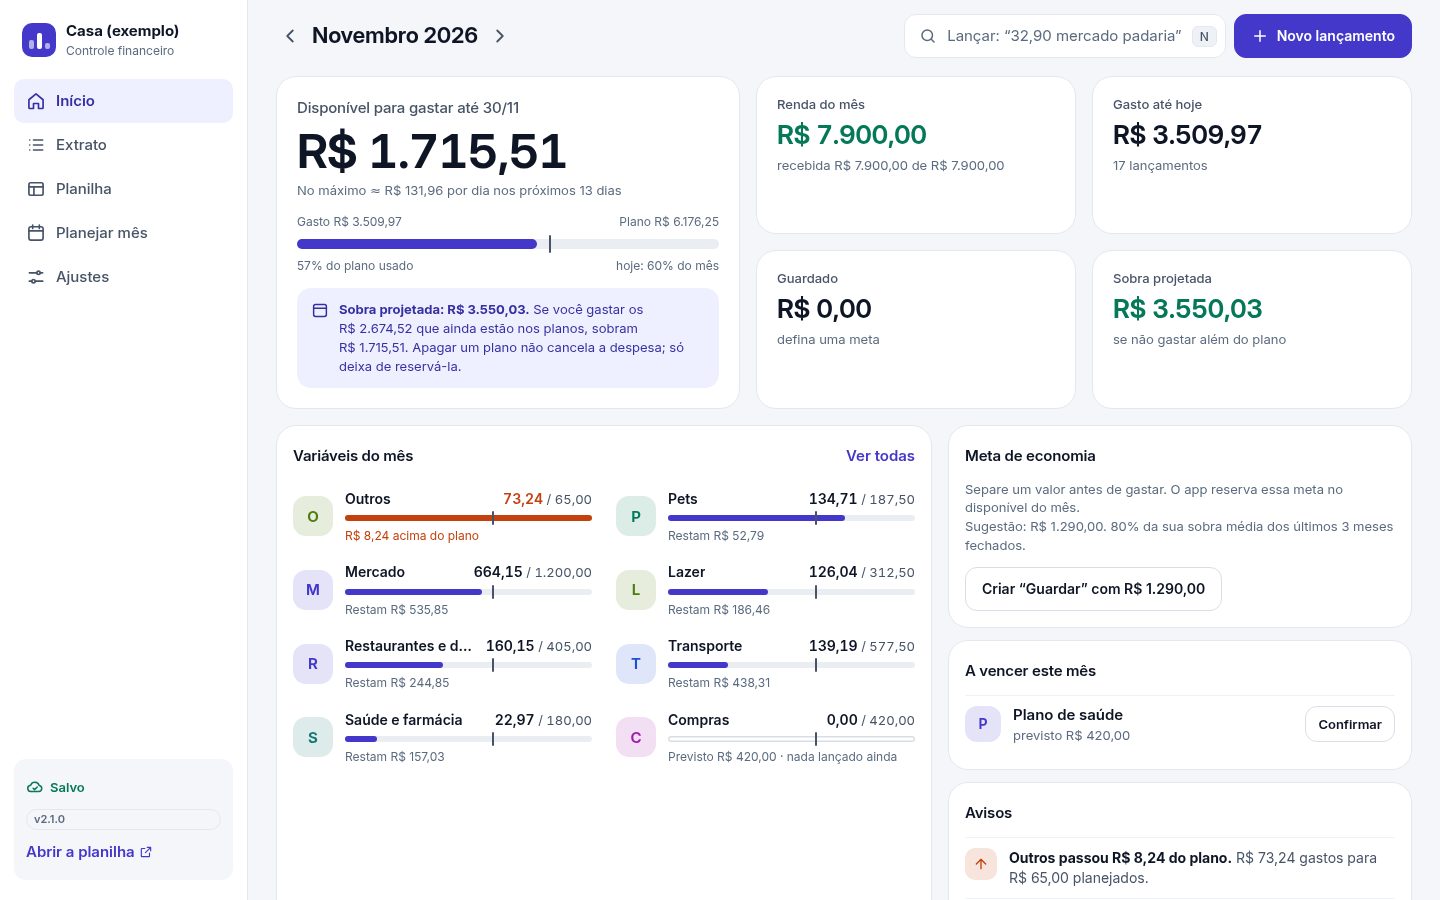
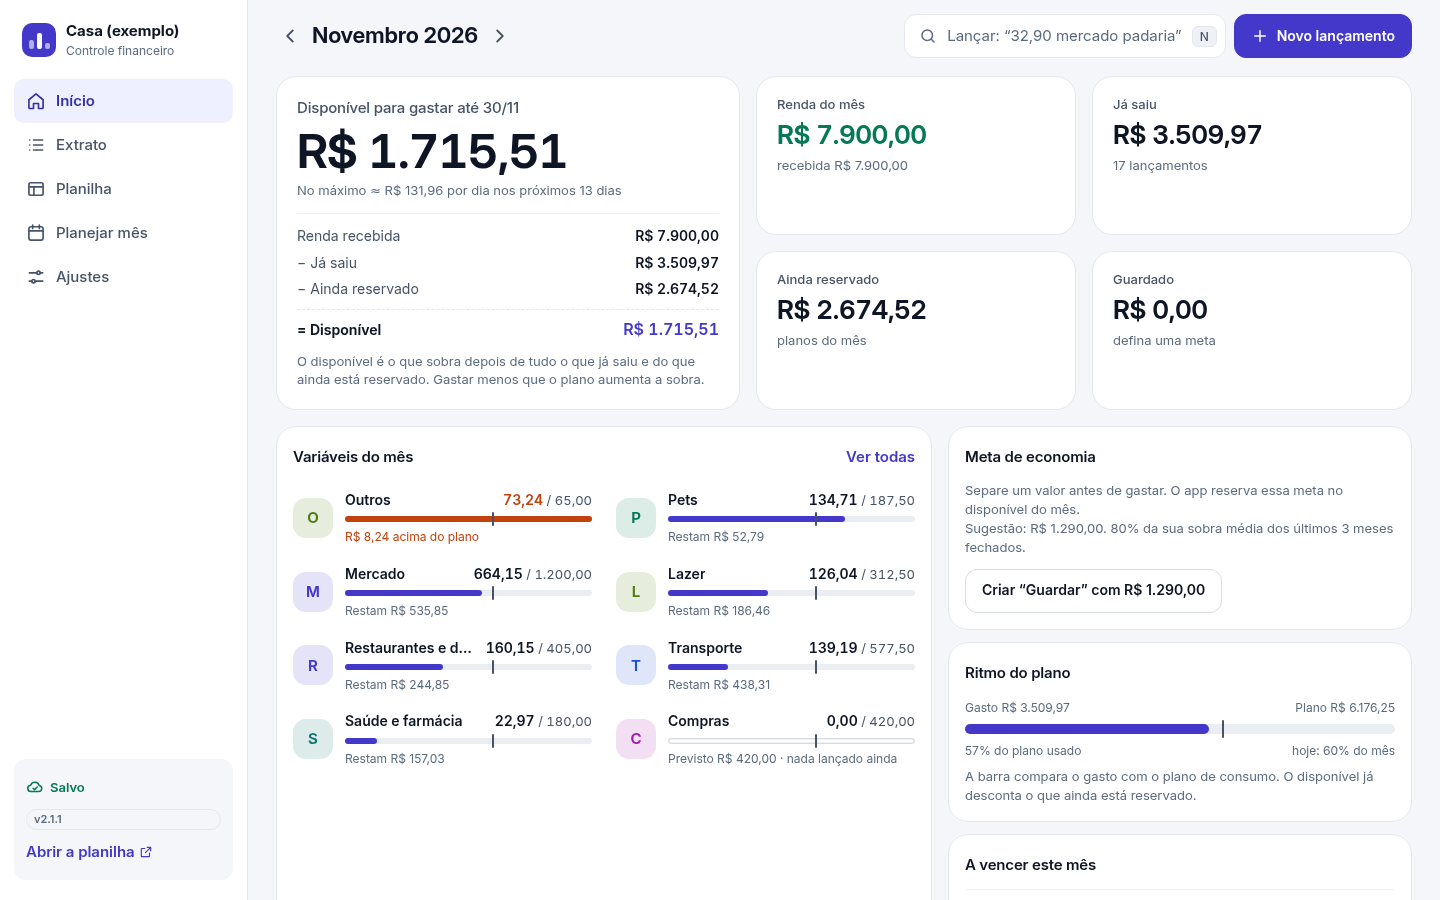
2.1.1: card do Início em quatro linhas e ritmo em cartão próprio

diff --git a/src/App.html b/src/App.html
@@ -573,7 +573,7 @@ function renderSinc() {
 /* ---------- Início ---------- */
 function telaInicio() {
   const r = resumo(S.ano, S.mes);
-  const lado = r.fase === 'atual' ? cartaoMeta(r) + cartaoAVencer(r) + cartaoCobertura(r) + cartaoAvisos(r) : '';
+  const lado = r.fase === 'atual' ? cartaoMeta(r) + cartaoRitmo(r) + cartaoAVencer(r) + cartaoCobertura(r) + cartaoAvisos(r) : '';
   return `<div class="grade-inicio${lado ? '' : ' sem-lado'}">${cartaoHeroi(r)}${cartaoKpis(r)}`
     + (lado ? `<div class="g-lado lado">${lado}</div>` : '')
     + cartaoCategorias(r) + cartaoUltimos() + cartaoAno() + '</div>';
@@ -581,24 +581,22 @@ function telaInicio() {
 function cartaoHeroi(r) {
   const m = MESES[S.mes - 1];
   if (r.fase === 'atual') {
-    const pct = r.planoGastos > 0 ? (r.gastoComPlano / r.planoGastos) * 100 : 0;
-    const estado = r.gastoComPlano > r.planoGastos ? 'acima'
-      : r.planoGastos > 0 && r.gastoComPlano / r.planoGastos > r.ritmo + 0.12 ? 'atencao' : 'ok';
     const sub = r.disponivel > 0
       ? `No máximo ≈ ${moeda(r.porDia)} por dia nos próximos ${r.restantes} dias`
-        + (r.guardadoPlano > 0 ? ` · depois de guardar ${moeda(r.guardadoPlano)}` : '')
       : 'Os gastos, os planos e a economia já passam da renda disponível.';
-    const ritmo = `<div class="ritmo-bloco"><div class="legenda-barra"><span>Gasto ${moeda(r.gastoComPlano)}</span><span>Plano ${moeda(r.planoGastos)}</span></div>`
-      + barra({ pct, ritmo: r.ritmo, estado, alta: true })
-      + `<div class="legenda-barra"><span>${Math.round(pct)}% do plano usado</span><span>hoje: ${Math.round(r.ritmo * 100)}% do mês</span></div>`
-      + (r.semPlano > 0 ? `<p class="sub" style="margin-top:6px">Sem plano: ${moeda(r.semPlano)} em ${r.semPlanoQtd} categoria${r.semPlanoQtd > 1 ? 's' : ''} (fora da barra). <button type="button" class="link" data-acao="planejar-sem-plano" data-foco="sem-plano">Planejar</button></p>` : '') + '</div>';
-    const negativo = r.sobra < 0;
-    const nota = `<div class="nota ${negativo ? 'nota-aviso' : 'nota-info'}">${ic(negativo ? 'alerta' : 'calendario', 18)}<p><strong>Sobra projetada: ${moeda(r.sobra)}.</strong> Se você gastar os ${moeda(r.aRealizar)} que ainda estão nos planos, sobram ${moeda(r.sobraSeGastarPlanos)}.`
-      + (r.guardadoPlano > 0 ? ` Guardar: ${moeda(r.guardadoPlano)}.` : '')
-      + (r.rendaReal > 0 && r.rendaPlano > r.rendaReal ? ` Renda recebida: ${moeda(r.rendaReal)} de ${moeda(r.rendaPlano)}.` : '')
-      + ' Apagar um plano não cancela a despesa; só deixa de reservá-la.</p></div>';
+    const rendaLbl = r.rendaReal > 0 ? 'Renda recebida' : 'Renda prevista';
+    const rendaDet = r.rendaReal > 0 && r.rendaPlano > r.rendaReal ? ` (de ${moeda(r.rendaPlano)})` : '';
+    const saiuLbl = r.guardadoReal > 0 ? '− Já saiu (gastos + Guardar)' : '− Já saiu';
+    const resLbl = r.guardadoPlano > 0 ? '− Ainda reservado (planos + Guardar)' : '− Ainda reservado';
+    const conta = `<div class="conta-heroi">`
+      + `<div><span>${rendaLbl}${rendaDet}</span><strong>${moeda(r.rendaBase)}</strong></div>`
+      + `<div><span>${saiuLbl}</span><strong>${moeda(r.gastoReal)}</strong></div>`
+      + `<div><span>${resLbl}</span><strong>${moeda(r.aRealizar)}</strong></div>`
+      + `<div class="total"><span>= Disponível</span><strong>${moeda(r.disponivel)}</strong></div>`
+      + '</div>';
+    const dica = '<p class="sub" style="margin-top:10px">O disponível é o que sobra depois de tudo o que já saiu e do que ainda está reservado. Gastar menos que o plano aumenta a sobra.</p>';
     return `<section class="cartao g-heroi heroi" aria-labelledby="h-livre"><h2 id="h-livre" class="rotulo">Disponível para gastar até ${r.dias}/${dois(S.mes)}</h2>`
-      + `<p class="numero-heroi${r.disponivel < 0 ? ' negativo' : ''}">${moeda(r.disponivel)}</p><p class="sub">${sub}</p>${ritmo}${nota}</section>`;
+      + `<p class="numero-heroi${r.disponivel < 0 ? ' negativo' : ''}">${moeda(r.disponivel)}</p><p class="sub">${sub}</p>${conta}${dica}</section>`;
   }
   if (r.fase === 'passado') {
     const real = r.qtdGastos > 0 || r.rendaReal > 0;
@@ -615,15 +613,30 @@ function cartaoHeroi(r) {
     + `<p class="sub">${r.renda || r.gastos ? `Sobra prevista: renda de ${moeda(r.renda)} e gastos de ${moeda(r.gastos)}.` : 'Ainda não há plano para este mês.'}</p>`
     + `<div class="acoes"><button type="button" class="botao" data-acao="planejar">${ic('mes', 18)}Planejar ${m}</button></div></section>`;
 }
+function cartaoRitmo(r) {
+  if (r.fase !== 'atual') return '';
+  if (!(r.planoGastos > 0)) {
+    return `<section class="cartao" aria-labelledby="h-ritmo"><div class="cartao-topo"><h2 id="h-ritmo">Ritmo do plano</h2></div>`
+      + `<p class="sub">Defina um plano em <button type="button" class="link" data-acao="planejar" data-foco="ritmo-planejar">Mês › Planejar</button> para acompanhar o ritmo dos gastos.</p></section>`;
+  }
+  const pct = (r.gastoComPlano / r.planoGastos) * 100;
+  const estado = r.gastoComPlano > r.planoGastos ? 'acima'
+    : r.gastoComPlano / r.planoGastos > r.ritmo + 0.12 ? 'atencao' : 'ok';
+  return `<section class="cartao" aria-labelledby="h-ritmo"><div class="cartao-topo"><h2 id="h-ritmo">Ritmo do plano</h2></div>`
+    + `<div class="legenda-barra"><span>Gasto ${moeda(r.gastoComPlano)}</span><span>Plano ${moeda(r.planoGastos)}</span></div>`
+    + barra({ pct, ritmo: r.ritmo, estado, alta: true })
+    + `<div class="legenda-barra"><span>${Math.round(pct)}% do plano usado</span><span>hoje: ${Math.round(r.ritmo * 100)}% do mês</span></div>`
+    + '<p class="sub" style="margin-top:6px">A barra compara o gasto com o plano de consumo. O disponível já desconta o que ainda está reservado.</p></section>';
+}
 function cartaoKpis(r) {
   let tiles;
   if (r.fase === 'atual') {
     const g = catGuardar();
     tiles = [
-      ['Renda do mês', moeda(r.rendaPlano || r.renda), r.rendaReal > 0 ? (r.rendaPlano > 0 ? `recebida ${moeda(r.rendaReal)} de ${moeda(r.rendaPlano)}` : 'recebida') : 'prevista', 'ok'],
-      ['Gasto até hoje', moeda(r.gastoConsumoReal), `${r.qtdConsumo} lançamento${r.qtdConsumo === 1 ? '' : 's'}`, ''],
+      ['Renda do mês', moeda(r.rendaPlano || r.renda), r.rendaReal > 0 ? (r.rendaPlano > r.rendaReal ? `recebida ${moeda(r.rendaReal)} de ${moeda(r.rendaPlano)}` : `recebida ${moeda(r.rendaReal)}`) : 'prevista', 'ok'],
+      ['Já saiu', moeda(r.gastoReal), `${r.qtdGastos} lançamento${r.qtdGastos === 1 ? '' : 's'}${r.guardadoReal > 0 ? ` · guardado ${moeda(r.guardadoReal)}` : ''}`, ''],
+      ['Ainda reservado', moeda(r.aRealizar), r.guardadoPlano > 0 ? 'planos + guardar' : 'planos do mês', ''],
       ['Guardado', moeda(r.guardadoReal), r.guardadoPlano > 0 ? `meta ${moeda(r.guardadoPlano)}` : g ? 'sem meta neste mês' : 'defina uma meta', ''],
-      ['Sobra projetada', moeda(r.sobra), r.guardadoPlano > 0 ? 'depois de guardar' : 'se não gastar além do plano', r.sobra < 0 ? 'acima' : 'ok'],
     ];
   } else if (r.fase === 'passado') {
     const real = r.qtdGastos > 0 || r.rendaReal > 0;
@@ -688,7 +701,7 @@ function cartaoMeta(r) {
 function cartaoCobertura(r) {
   if (!(r.semPlano > 0)) return '';
   return `<section class="cartao" aria-labelledby="h-cobertura"><div class="cartao-topo"><h2 id="h-cobertura">Cobertura do plano</h2></div>`
-    + `<p class="sub">${moeda(r.semPlano)} em ${r.semPlanoQtd} categoria${r.semPlanoQtd > 1 ? 's' : ''} sem plano. Esse valor fica fora da barra e não é reservado no disponível. Planejar pela média dos últimos 3 meses?</p>`
+    + `<p class="sub"><strong>Sem plano: ${moeda(r.semPlano)} em ${r.semPlanoQtd} categoria${r.semPlanoQtd > 1 ? 's' : ''}.</strong> Esse valor fica fora da barra e não é reservado no disponível. Planejar pela média dos últimos 3 meses?</p>`
     + '<div class="acoes"><button type="button" class="botao pequeno" data-acao="planejar-sem-plano" data-foco="planejar-sem-plano">Planejar agora</button></div></section>';
 }
 function cartaoAVencer(r) {

diff --git a/src/Estilos.html b/src/Estilos.html
@@ -289,6 +289,11 @@ kbd { font: 500 12px var(--fonte); padding: 2px 7px; border-radius: 6px; backgro
 .numero-heroi.negativo { color: var(--acima); }
 .heroi .ritmo-bloco { margin-top: 14px; }
 .heroi .nota { margin-top: 14px; }
+.conta-heroi { display: flex; flex-direction: column; gap: 6px; margin-top: 14px; padding-top: 12px; border-top: 1px solid var(--linha-2); }
+.conta-heroi > div { display: flex; align-items: baseline; justify-content: space-between; gap: 12px; font-size: 14px; color: var(--tinta-2); }
+.conta-heroi strong { color: var(--tinta); font-weight: 600; white-space: nowrap; font-variant-numeric: tabular-nums; }
+.conta-heroi .total { margin-top: 4px; padding-top: 8px; border-top: 1px dashed var(--linha); color: var(--tinta); font-weight: 650; }
+.conta-heroi .total strong { color: var(--acento); font-size: 16px; }
 .kpis { display: grid; grid-template-columns: repeat(2, minmax(0, 1fr)); gap: 12px; }
 .kpi { display: flex; flex-direction: column; gap: 2px; padding: 14px 16px; }
 .kpi-valor { font-size: 20px; font-weight: 650; letter-spacing: -.02em; }

diff --git a/docs/USAR.md b/docs/USAR.md
@@ -51,18 +51,17 @@ Errou? Logo depois de salvar aparece **Desfazer**. Para corrigir depois, toque n
 
 ### Início
 
-- **Disponível para gastar até o fim do mês:** quanto dá para gastar depois de guardar e reservar os planos. A conta é: renda já recebida (se nada entrou ainda, a renda prevista) − o que já foi gasto (incluindo as transferências para Guardar) − o que ainda falta lançar dos planos (contas fixas, variáveis e a meta de Guardar que ainda não foi transferida). O texto abaixo do número divide esse valor pelos dias que faltam e, se houver meta, lembra "depois de guardar R$ ...". Se o valor ficar negativo, o texto avisa que os gastos, os planos e a economia já passam da renda disponível.
-- **Barra do plano:** só entram as categorias de consumo com plano; Guardar fica de fora. Ela compara o gasto com o plano e com o ritmo do mês: fica em **atenção** quando você está mais de 12 pontos à frente do mês, e em **acima** quando passa do plano. Categorias sem plano aparecem em "Sem plano", com um botão **Planejar**.
-- **Sobra projetada:** a nota do herói mostra a sobra do mês como **projeção** e quanto sobraria se você gastasse tudo o que ainda está nos planos. Se houver meta, mostra o valor de Guardar; se parte da renda ainda não entrou, mostra quanto já foi recebido. A nota sempre avisa: apagar um plano não cancela a despesa; só deixa de reservá-la.
-- **Números do mês:** renda do mês (**recebida** ou **prevista**), gasto até hoje (só consumo), **guardado** (com a meta, quando existe) e **sobra projetada**.
+- **Disponível para gastar até o fim do mês:** quanto dá para gastar depois de guardar e reservar os planos. O cartão mostra a conta em quatro linhas: **Renda** (recebida; se nada entrou ainda, prevista) − **Já saiu** (gastos e transferências para Guardar) − **Ainda reservado** (planos e a meta de Guardar que ainda não foi transferida) = **Disponível**. O texto abaixo do número divide esse valor pelos dias que faltam e mostra o máximo por dia. Se o valor ficar negativo, o texto avisa que os gastos, os planos e a economia já passam da renda disponível. Gastar menos que o plano aumenta a sobra.
+- **Ritmo do plano:** cartão separado do disponível. A barra compara o gasto das categorias de consumo com o plano delas e com o ritmo do mês: fica em **atenção** quando você está mais de 12 pontos à frente do mês, e em **acima** quando passa do plano. Guardar fica de fora. A barra não é a conta do disponível; ela só mostra o ritmo.
+- **Números do mês:** renda do mês (**recebida** ou **prevista**), **já saiu** (gastos; inclui Guardar quando houver transferência), **ainda reservado** (planos e meta de Guardar) e **guardado** (com a meta, quando existe).
 - **Meta de economia:** a meta do mês, o que já foi guardado e o que falta. O campo abaixo da barra grava a meta (também dá para editá-la na tela Mês); **Confirmar** lança a transferência com a data de hoje. O valor já estava reservado no disponível, então confirmar só registra a transferência. Se a categoria Guardar ainda não existe, o cartão mostra uma sugestão de **80% da sua sobra média realizada dos últimos 3 meses fechados** e oferece criar a categoria já com esse valor. A sugestão não é automática: ela só vira meta quando você toca no botão ou grava o valor.
-- **Cobertura do plano:** aparece quando há categorias de consumo sem plano. Mostra o valor que está fora da barra e não é reservado no disponível e oferece **Planejar agora**, pela média dos últimos 3 meses (ou pelo valor já lançado, quando não há média). A partir daí, o disponível passa a reservar esses planos.
+- **Cobertura do plano:** aparece quando há categorias de consumo sem plano. Mostra **“Sem plano: R$ ...”**, o valor que está fora da barra e não é reservado no disponível, e oferece **Planejar agora**, pela média dos últimos 3 meses (ou pelo valor já lançado, quando não há média). A partir daí, o disponível passa a reservar esses planos.
 - **A vencer este mês:** contas fixas com plano e sem lançamento, sem Guardar. O botão **Confirmar** lança o valor do plano com a data de hoje.
 - **Avisos:** categorias de consumo que passaram do plano ou que estão gastando rápido demais. Guardar nunca entra como "passou do plano".
 
 ### Sobra projetada e sobra realizada
 
-No mês atual, a sobra é uma **projeção**: ela usa o que foi lançado e, nas categorias sem lançamento, o plano. Não é dinheiro que já sobrou. Nos meses fechados, quando há dados reais, o app mostra a **sobra realizada** (renda recebida − gastos lançados) e a rotula "realizada"; sem dados reais, mostra "com previsto". O gráfico **Sobra mês a mês**, no fim do Início, segue a mesma regra e marca os meses projetados com contorno.
+A sobra **não é o número principal do Início**: o Início mostra o **disponível**, que já desconta o que ainda está reservado. No mês atual, a sobra é uma **projeção**: ela usa o que foi lançado e, nas categorias sem lançamento, o plano. Não é dinheiro que já sobrou. Nos meses fechados, quando há dados reais, o app mostra a **sobra realizada** (renda recebida − gastos lançados) e a rotula "realizada"; sem dados reais, mostra "com previsto". A sobra projetada aparece na tela **Mês** e no gráfico **Sobra mês a mês**, no fim do Início, que marca os meses projetados com contorno.
 
 ### Extrato
 
@@ -89,7 +88,7 @@ O ano inteiro numa tabela: categorias nas linhas, meses nas colunas.
 
 ### Ajustes
 
-Nome do controle, tema (automático, claro ou escuro), categorias e a seção **Seus dados**.
+Nome do controle, tema (automático, claro ou escuro), categorias e a seção **Seus dados**. A versão do app aparece no rodapé do menu (no computador), no topo de **Ajustes** e na seção **Sobre**.
 
 ## Seus dados e backup
 

diff --git a/docs/ARQUITETURA.md b/docs/ARQUITETURA.md
@@ -108,7 +108,8 @@ Campos de `resumo(ano, mes)`:
 A diferença central está entre `sobra` e `disponivel`: `sobra` responde "quanto sobra se o mês terminar como está previsto?" e `disponivel` responde "quanto posso gastar agora sem furar os planos nem a meta?". Por isso `disponivel` parte de `rendaBase` (renda recebida) e desconta `aRealizar` (o que ainda falta sair), incluindo Guardar. Quando parte da renda ainda não entrou, `disponivel` é menor que `sobra`.
 
 - **Mês fechado:** `sobraReal` é o realizado. `sobra` continua sendo o valor por categoria (o plano quando não há lançamento). Nas telas de mês passado, o app usa `sobraReal` quando há renda/lançamento real e rotula "realizada"; sem dados reais, usa `sobra` e rotula "com previsto".
-- **Barra do herói:** usa `planoGastos` e `gastoComPlano` (só consumo, sem Guardar). Fica `acima` quando o gasto passa o plano; `atencao` quando `planoGastos > 0` e o gasto passa mais de 12 pontos percentuais do ritmo do mês; senão `ok`. Guardar não entra.
+- **Herói:** mostra `rendaBase − gastoReal − aRealizar = disponivel`, em quatro linhas (Renda, Já saiu, Ainda reservado, Disponível). A sobra não entra no herói; ela fica na tela Mês e no gráfico anual.
+- **Ritmo do plano:** cartão separado; usa `planoGastos` e `gastoComPlano` (só consumo, sem Guardar). Fica `acima` quando o gasto passa o plano; `atencao` quando `planoGastos > 0` e o gasto passa mais de 12 pontos percentuais do ritmo do mês; senão `ok`. Guardar não entra.
 - **Ritmo:** a marca nas barras é o dia de hoje sobre os dias do mês. Uma categoria variável fica "acima do ritmo" quando já usou mais de 12 pontos percentuais além dele. Guardar é sempre `ok`: guardar mais que a meta é bom.
 - **Mapa de calor:** cada mês fechado é comparado com a média dos meses fechados da própria categoria no ano (a partir de 3 meses). Acima de 15% fica laranja; abaixo de −15%, azul.
 

diff --git a/README.md b/README.md
@@ -5,12 +5,12 @@ Controle financeiro pessoal que roda no **Google Sheets + Apps Script**: rápido
 *Personal finance tracker built on Google Sheets + Apps Script (Portuguese UI). Your data stays in your own spreadsheet.*
 
 <p>
-  <img src="docs/img/celular-inicio.png" alt="Início no celular: disponível para gastar, sobra projetada, meta de economia e contas a vencer" width="260">
+  <img src="docs/img/celular-inicio.png" alt="Início no celular: disponível para gastar, meta de economia, ritmo do plano e contas a vencer" width="260">
   <img src="docs/img/celular-lancar.png" alt="Novo lançamento no celular: teclado numérico, data e categorias" width="260">
   <img src="docs/img/celular-mes.png" alt="Mês no celular: cada categoria com gasto, plano e ritmo" width="260">
 </p>
 
-![Início no computador: disponível para gastar, números do mês, categorias, meta de economia, contas a vencer e sobra mês a mês](docs/img/computador-inicio.png)
+![Início no computador: disponível para gastar, números do mês, categorias, meta de economia, ritmo do plano e sobra mês a mês](docs/img/computador-inicio.png)
 
 ## Por que usar
 

diff --git a/CHANGELOG.md b/CHANGELOG.md
@@ -1,5 +1,13 @@
 # Changelog
 
+## 2.1.1 — 2026-11-18
+
+### Mudou
+- **Card do Início mais simples.** O herói agora mostra a conta em quatro linhas: **Renda** − **Já saiu** − **Ainda reservado** = **Disponível**. A "sobra projetada" saiu do herói e dos KPIs do mês; ela continua no gráfico "Sobra mês a mês" e na tela Mês.
+- **Ritmo do plano em cartão próprio.** A barra de gasto × plano saiu do herói e virou o cartão **Ritmo do plano**, com a explicação de que ela compara o consumo com o plano e não é a conta do disponível.
+- **KPIs do mês:** Renda do mês, Já saiu, Ainda reservado e Guardado. O cartão "Gasto até hoje" virou "Já saiu" para incluir as transferências de Guardar quando existirem.
+- **Cobertura do plano** agora começa com "Sem plano: R$ ...", deixando claro o valor que está fora da barra e não é reservado.
+
 ## 2.1.0 — 2026-11-18
 
 "Guardar primeiro": o app reserva a meta de economia e os planos do mês antes de mostrar quanto há para gastar.
